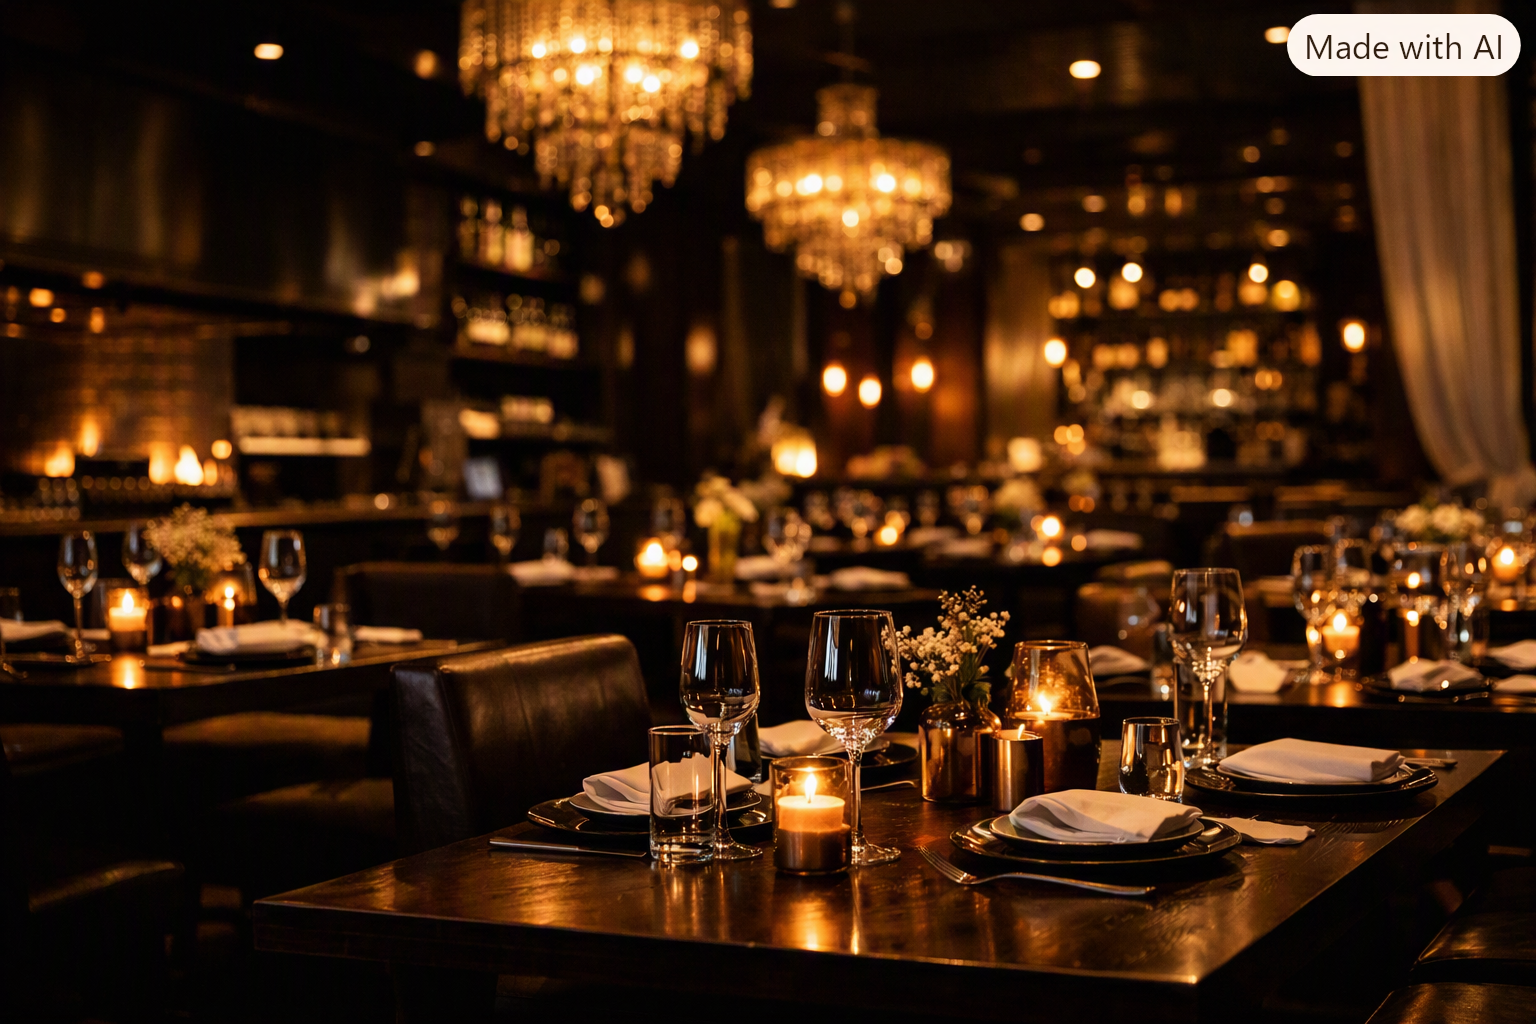
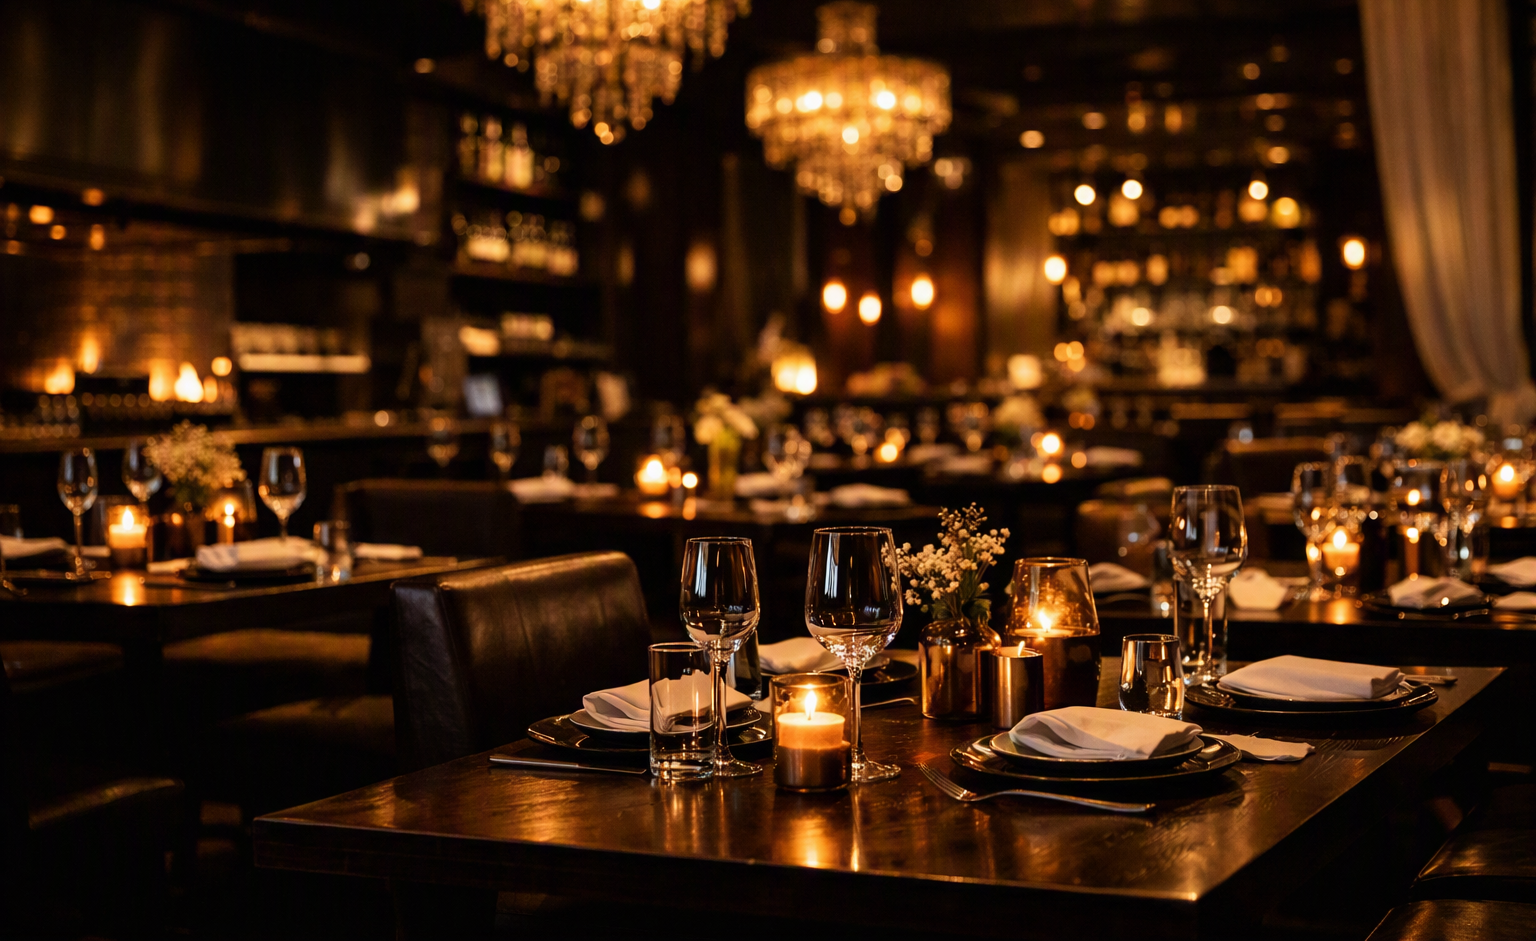
responsividade

diff --git a/style.css b/style.css
@@ -688,14 +688,17 @@ img {
 .contato{
     margin-top: 100px;
     display: flex;
-    flex: 1;
+    /* flex: 1; */
     justify-content: center;
     flex-direction: row;
+    padding: 60px 20px;
 }
 
 .inf-contato{
     font-family: 'Courier New', Courier, monospace;
     font-size: em;
+    margin-right: -50px;
+    
 }
 
 .title-contact{
@@ -785,14 +788,19 @@ img {
     align-items: center;
     padding: 10px;
     width: 70%;
-    hei
+    
+  }
+
+  .product-list{
+    width: 100%;
+    padding: 20%;
   }
 
   .menu a{
     display: flex;
     justify-content: space-evenly;
     flex-direction: row;
-    width: 50%;
+    width: 100%;
     gap: 5px;
 
   }
@@ -903,7 +911,7 @@ header{
 
 .menu {
     list-style: none;
-    width: 50%;
+    width: 100%;
     display: flex;
     flex-direction: row;
     margin-top: 1px;
@@ -936,7 +944,7 @@ header a:hover{
 }
 .reserva{
     display: flex;
-    justify-content: center; /*botão reserva no header*/
+    justify-content: flex-end; /*botão reserva no header*/
     color: aliceblue;
     margin: ;
 }
@@ -957,10 +965,10 @@ section.product-list {
   z-index: 0; /* acima da imagem */
   margin-top: 50px; /* sobe sobre o fundo */
   background-color: rgba(13, 13, 13, 0.95); /* leve fundo escuro */
-  /* padding: 80px 60px; */
+  padding: 80px 60px;
   border-top-left-radius: 20px;
   border-top-right-radius: 20px;
-  width: 100%;
+  width: 190%;
 }
 
 .descricao {
@@ -1188,19 +1196,12 @@ img {
 .alert-week{
     display: flex;
     justify-content: space-between;
-    /* flex: 1; */
     flex-direction: row-reverse;
-    /* width: 100%; */
     height: 340px;
-    /* background-image: url('imgs/imgjazz1.png'); */
-    /* background-size: cover; */
     background-position: left;
     background-repeat: no-repeat;
     z-index: -1;
     overflow: hidden;
-    /* border: 10px solid rgb(255, 255, 255, 0.1);
-    inset: ;
-    filter: blur(px); */
 }
 
 .alert-week {
@@ -1214,10 +1215,8 @@ img {
 .background {
   position: absolute;
   inset: ;
-  /* background-image: url('./imgs/imgheader.png'); */
   background-size: cover;
   background-position: center;
-  /* filter: blur(8px);   aplica o desfoque só na imagem */
   z-index: -1;
 }
 
@@ -1261,11 +1260,8 @@ img {
     justify-content: space-around;
     flex-direction: row;
     font-family: 'Courier New', Courier, monospace;
-    /* background-image: url('imgs/imgfundomonday.png'); */
-    /* filter: blur(15px); */
     background-position: center;
     background-repeat: no-repeat;
-    /* z-index: -1; */
     width: 100%;
     height: 200px;
     align-items: center;
@@ -1277,7 +1273,6 @@ img {
     display: flex;
     content: "";
     position: absolute;
-    /* inset: 0; */
     width: 90%;
     height: 200px;
     background-image: url('imgs/imgfundomonday.png');
@@ -1421,7 +1416,6 @@ img {
 
 .numb{
     display: flex;
-    /* justify-content: flex-start; */
     align-items: center;
     flex-direction: row;
     margin: 0 0 0 50px;
@@ -1498,7 +1492,6 @@ img {
 }
 
 .knows{
-    /* font-family: 'Courier New', Courier, monospace; */
     font-size: 6em;
     margin: -20px;
 }
@@ -1507,7 +1500,7 @@ img {
     font-family: 'Courier New', Courier, monospace;
     background-color: brown;
     color: #fff;
-    font-size: 30px;
+    font-size: 20px;
     border-radius: 15px;
     width: 22%;
     height: 40px;
